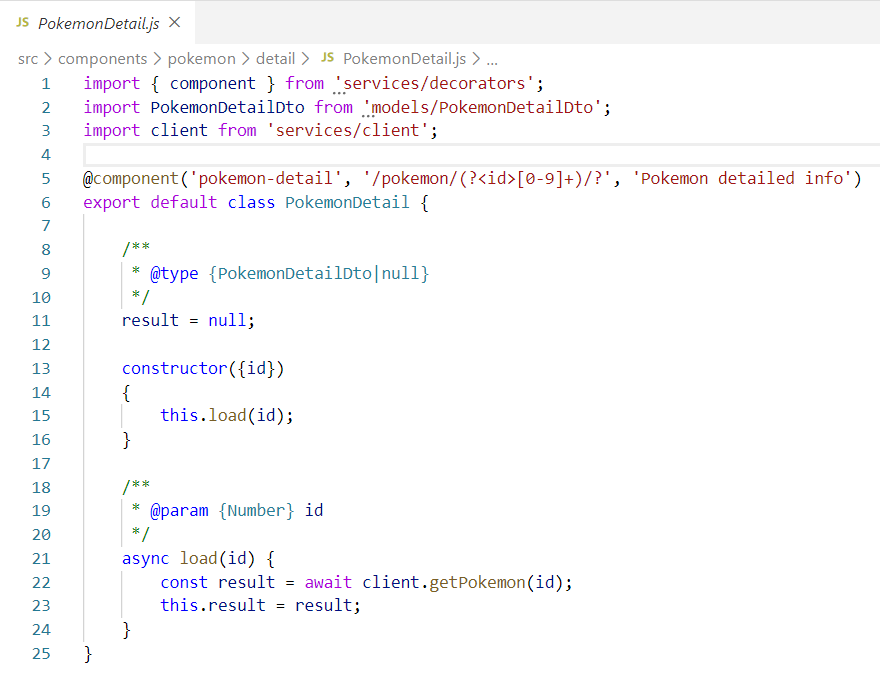
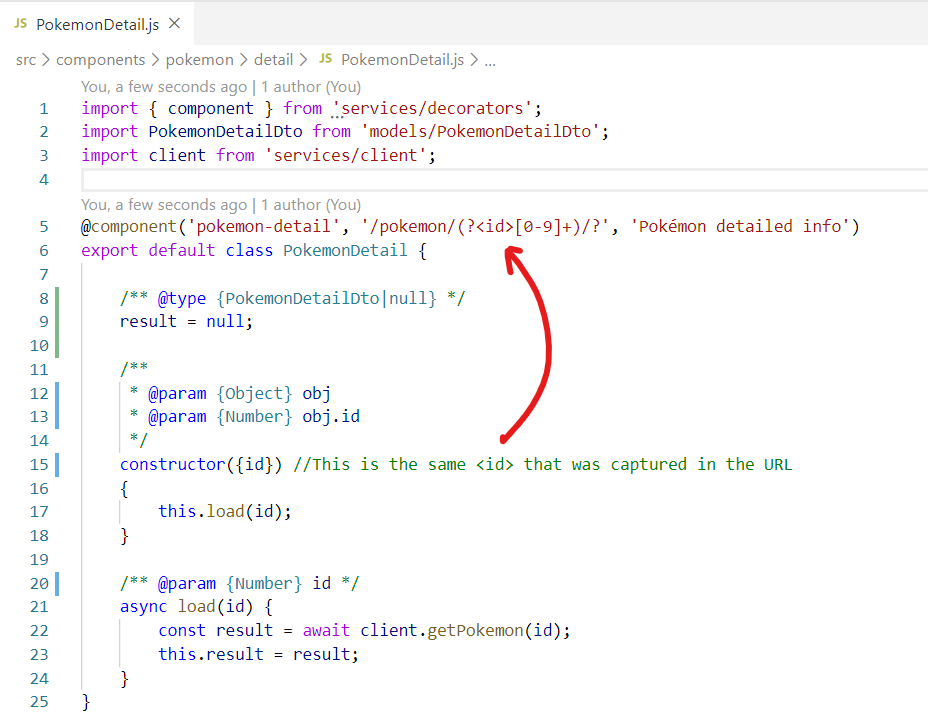
Update type notations

diff --git a/src/services/app.js b/src/services/app.js
@@ -39,8 +39,8 @@ class App {
     }
 
     /**
-     * @param {string} elementName
-     * @param {string} componentName
+     * @param {String} elementName
+     * @param {String} componentName
      * @param {ObjectConstructor} componentConstructor
      */
     registerComponent(elementName, componentName, componentConstructor) {
@@ -50,7 +50,7 @@ class App {
     }
 
     /**
-     * @param {string} componentName 
+     * @param {String} componentName 
      * @returns {VueComponentDescriptor}
      */
     getOrCreateDescriptor(componentName) {
@@ -61,7 +61,7 @@ class App {
     }
 
     /**
-     * @param {string} componentName
+     * @param {String} componentName
      * @param {string[]} methods
      */
     registerComponentMethods(componentName, methods) {
@@ -72,16 +72,16 @@ class App {
     }
 
     /**
-     * @param {string} componentName
-     * @param {string} template
+     * @param {String} componentName
+     * @param {String} template
      */
     registerComponentTemplate(componentName, template) {
         this.getOrCreateDescriptor(componentName).template = template;
     }
 
     /**
-     * @param {string} componentName
-     * @param {string} propertyName
+     * @param {String} componentName
+     * @param {String} propertyName
      */
     registerComponentProperty(componentName, propertyName) {
         this.getOrCreateDescriptor(componentName).properties.push(propertyName);
@@ -104,12 +104,12 @@ class VueComponentDescriptor {
     params;
 
     /**
-     * @type {string}
+     * @type {String}
      */
     componentName;
 
     /**
-     * @type {string}
+     * @type {String}
      */
     elementName;
 
@@ -119,27 +119,27 @@ class VueComponentDescriptor {
     factory;
 
     /**
-     * @type {string[]}
+     * @type {String[]}
      */
     methods = [];
 
     /**
-     * @type {string[]}
+     * @type {String[]}
      */
     computed = [];
 
     /**
-     * @type {string[]}
+     * @type {String[]}
      */
     properties = [];
 
     /**
-     * @type {string}
+     * @type {String}
      */
     template;
 
     /**
-     * @param {string} componentName
+     * @param {String} componentName
      */
     constructor(componentName) {
         this.componentName = componentName;

diff --git a/src/services/router.js b/src/services/router.js
@@ -56,9 +56,9 @@ const preventNavigation = (history, event) => {
 };
 
 /**
- * @param {string} elementName
+ * @param {String} elementName
  * @param {any} params
- * @param {string} title
+ * @param {String} title
  * @returns Promise
  */
 const notifySubscribersOfNavigatedEvent = async (elementName, params, title) => {
@@ -124,9 +124,9 @@ export class Router {
     }
 
     /**
-     * @param {string} componentName
-     * @param {string} pattern
-     * @param {string|undefined} [title]
+     * @param {String} componentName
+     * @param {String} pattern
+     * @param {String|undefined} [title]
      */
     addRoute (componentName, pattern, title = null) {
         const foundRoutes = routes.filter(r => r.componentName == componentName);
@@ -141,7 +141,7 @@ export class Router {
     };
 }
 
-export default new Router(
+export default new Router( //TODO: Decouple this from globals. They should be provided by the HTML page or maybe use the 'global' keyword.
         typeof window !== 'undefined' ? window.location : null,
         typeof window !== 'undefined' ? window.history : null,
         //Can't use addEventListener.bind here or it won't work on IE11 because it's a native method
@@ -157,12 +157,12 @@ class ComponentRoute {
         this.title = title;
     }
 
-    /** @var {string} */
+    /** @var {String} */
     componentName;
 
-    /** @var {string} */
+    /** @var {String} */
     title;
     
-    /** @var {string} */
+    /** @var {String} */
     pattern;
 }

diff --git a/src/components/pokemon/detail/PokemonDetail.js b/src/components/pokemon/detail/PokemonDetail.js
@@ -5,19 +5,19 @@ import client from 'services/client';
 @component('pokemon-detail', '/pokemon/(?<id>[0-9]+)/?', 'Pokémon detailed info')
 export default class PokemonDetail {
 
-    /**
-     * @type {PokemonDetailDto|null}
-     */
+    /** @type {PokemonDetailDto|null} */
     result = null;
 
-    constructor({id})
+    /**
+     * @param {Object} obj
+     * @param {Number} obj.id
+     */
+    constructor({id}) //This is the same <id> that was captured in the URL
     {
         this.load(id);
     }
 
-    /**
-     * @param {Number} id 
-     */
+    /** @param {Number} id */
     async load(id) {
         const result = await client.getPokemon(id);
         this.result = result;

diff --git a/src/models/PokemonDetailDto.js b/src/models/PokemonDetailDto.js
@@ -2,8 +2,8 @@ export default class PokemonDetailDto {
 
     /**
      * @param {number} id
-     * @param {string} name
-     * @param {string} picture
+     * @param {String} name
+     * @param {String} picture
      * @param {string[]} types
      * @param {string[]} moves
      */
@@ -18,15 +18,15 @@ export default class PokemonDetailDto {
     /** @type {number} */
     id;
 
-    /** @type {string} */
+    /** @type {String} */
     name;
 
-    /** @type {string} */
+    /** @type {String} */
     picture;
 
-    /** @type {string[]} */
+    /** @type {String[]} */
     types;
 
-    /** @type {string[]} */
+    /** @type {String[]} */
     moves;
 }

diff --git a/src/services/decorators.js b/src/services/decorators.js
@@ -4,9 +4,9 @@ import router from 'services/router';
 const getTargetName = (target) => target.toString();
 
 /**
- * @param {string} elementName
- * @param {string|null} [route]
- * @param {string|null} [title]
+ * @param {String} elementName
+ * @param {String|null} [route]
+ * @param {String|null} [title]
  */
 export const component = (elementName, route = null, title = null) => 
     /** @type {any} */ (target => {
@@ -20,7 +20,7 @@ export const component = (elementName, route = null, title = null) =>
     });
 
 /**
- * @param {string} template
+ * @param {String} template
  */
 export const template = (template) => 
     /** @type {any} */ (target => {

diff --git a/src/components/layout/MainLayout.js b/src/components/layout/MainLayout.js
@@ -6,12 +6,12 @@ import app from 'services/app';
 export default class MainLayout {
 
     /**
-     * @type {string}
+     * @type {String}
      */
     componentName;
 
     /**
-     * @type {string}
+     * @type {String}
      */
     title;
 
@@ -20,9 +20,9 @@ export default class MainLayout {
     }
 
     /**
-     * @param {string} componentName
+     * @param {String} componentName
      * @param {any} params
-     * @param {string} title
+     * @param {String} title
      */
     async onNavigated(componentName, params, title) {
         this.componentName = componentName;

diff --git a/src/models/PokemonResultDto.js b/src/models/PokemonResultDto.js
@@ -2,7 +2,7 @@ export default class PokemonResultDto {
 
     /**
      * @param {number} id
-     * @param {string} name
+     * @param {String} name
      */
     constructor(id, name) {
         this.id = id;
@@ -12,10 +12,10 @@ export default class PokemonResultDto {
     /** @type {number} */
     id;
 
-    /** @type {string} */
+    /** @type {String} */
     name;
     
-    /** @type {string} */
+    /** @type {String} */
     get url() {
         return `/pokemon/${this.id}`;
     };

diff --git a/src/services/client.js b/src/services/client.js
@@ -4,8 +4,8 @@ import PokemonDetailDto from 'models/PokemonDetailDto';
 const baseUri = 'https://pokeapi.co/api/v2';
 
 /**
- * @param {string} [method]
- * @param {string} [path]
+ * @param {String} [method]
+ * @param {String} [path]
  * @returns {Promise<any>}
  */
 const request = async (method, path) => {
